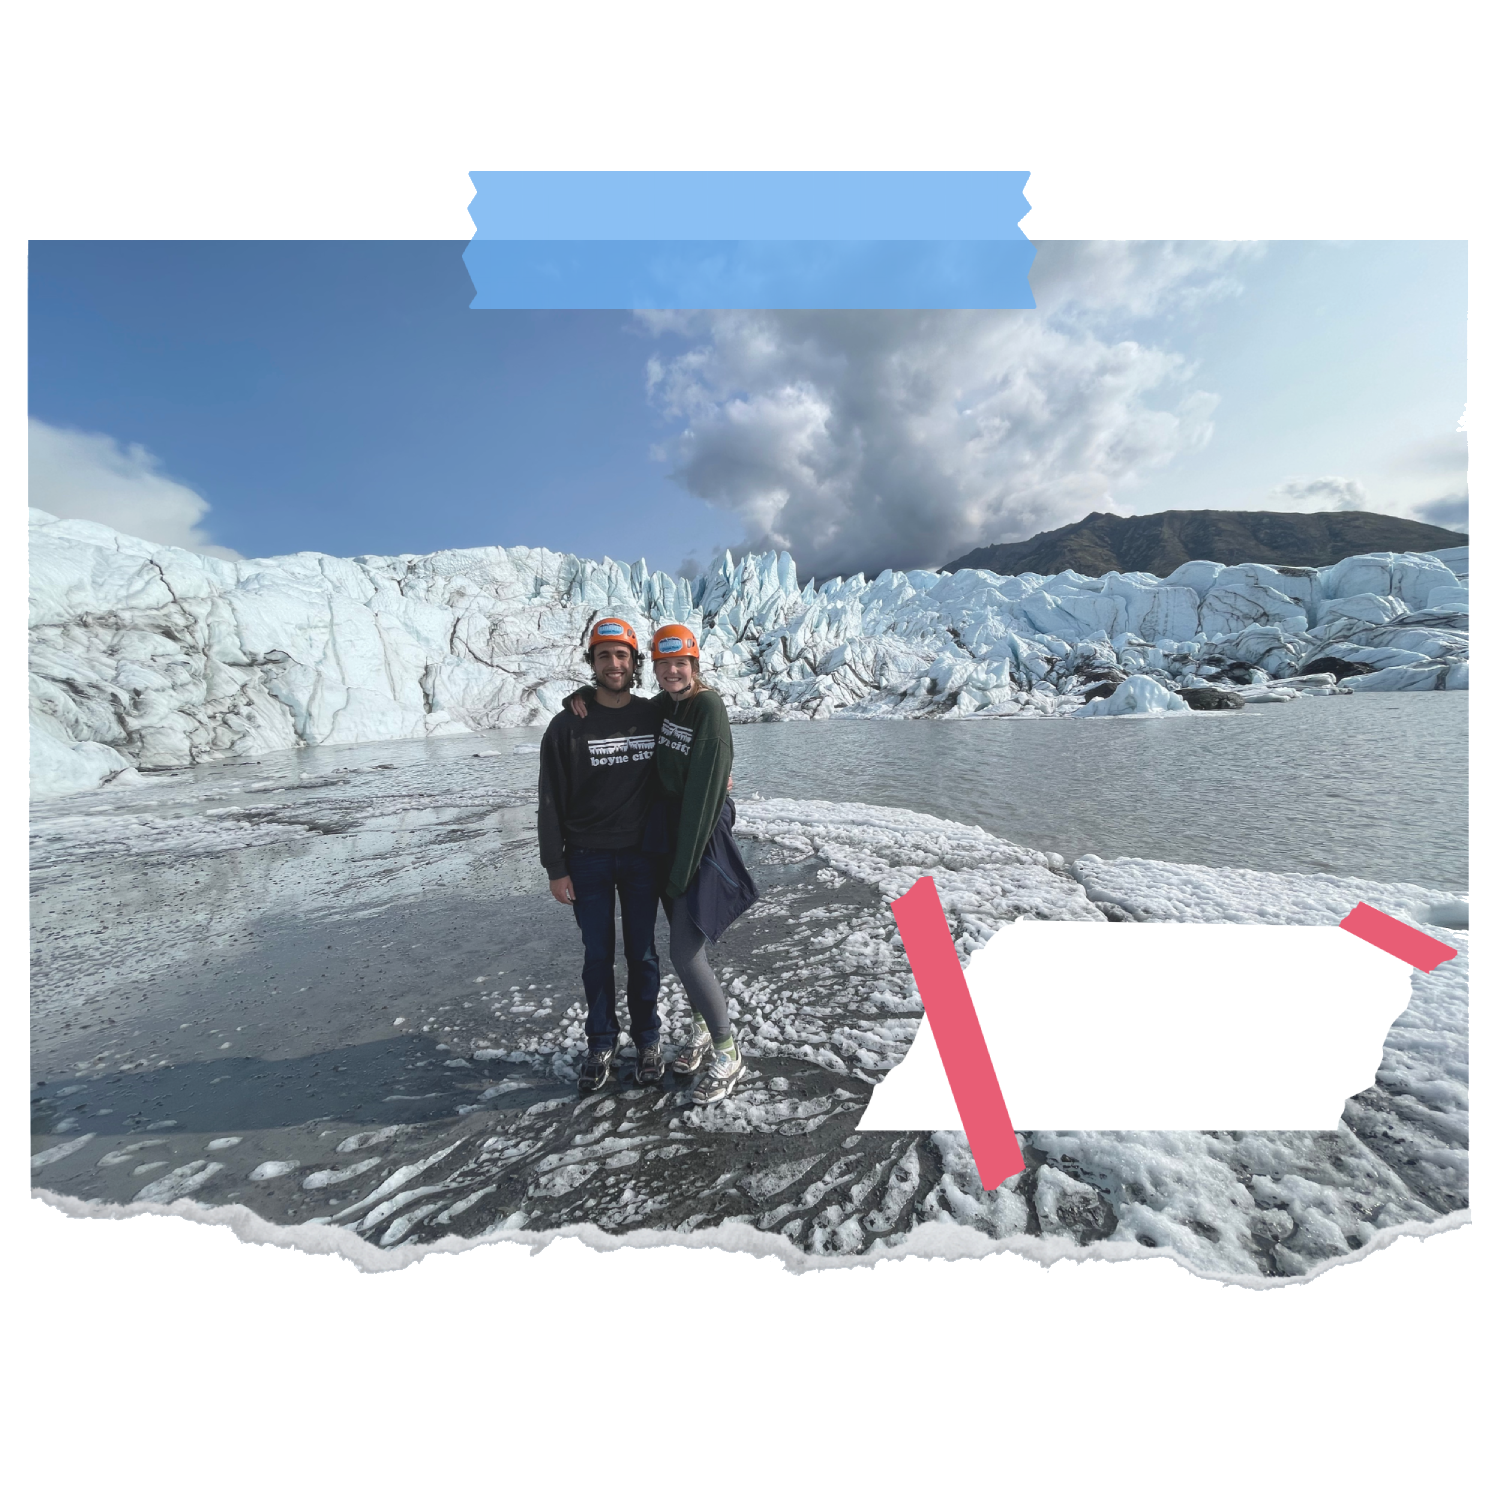
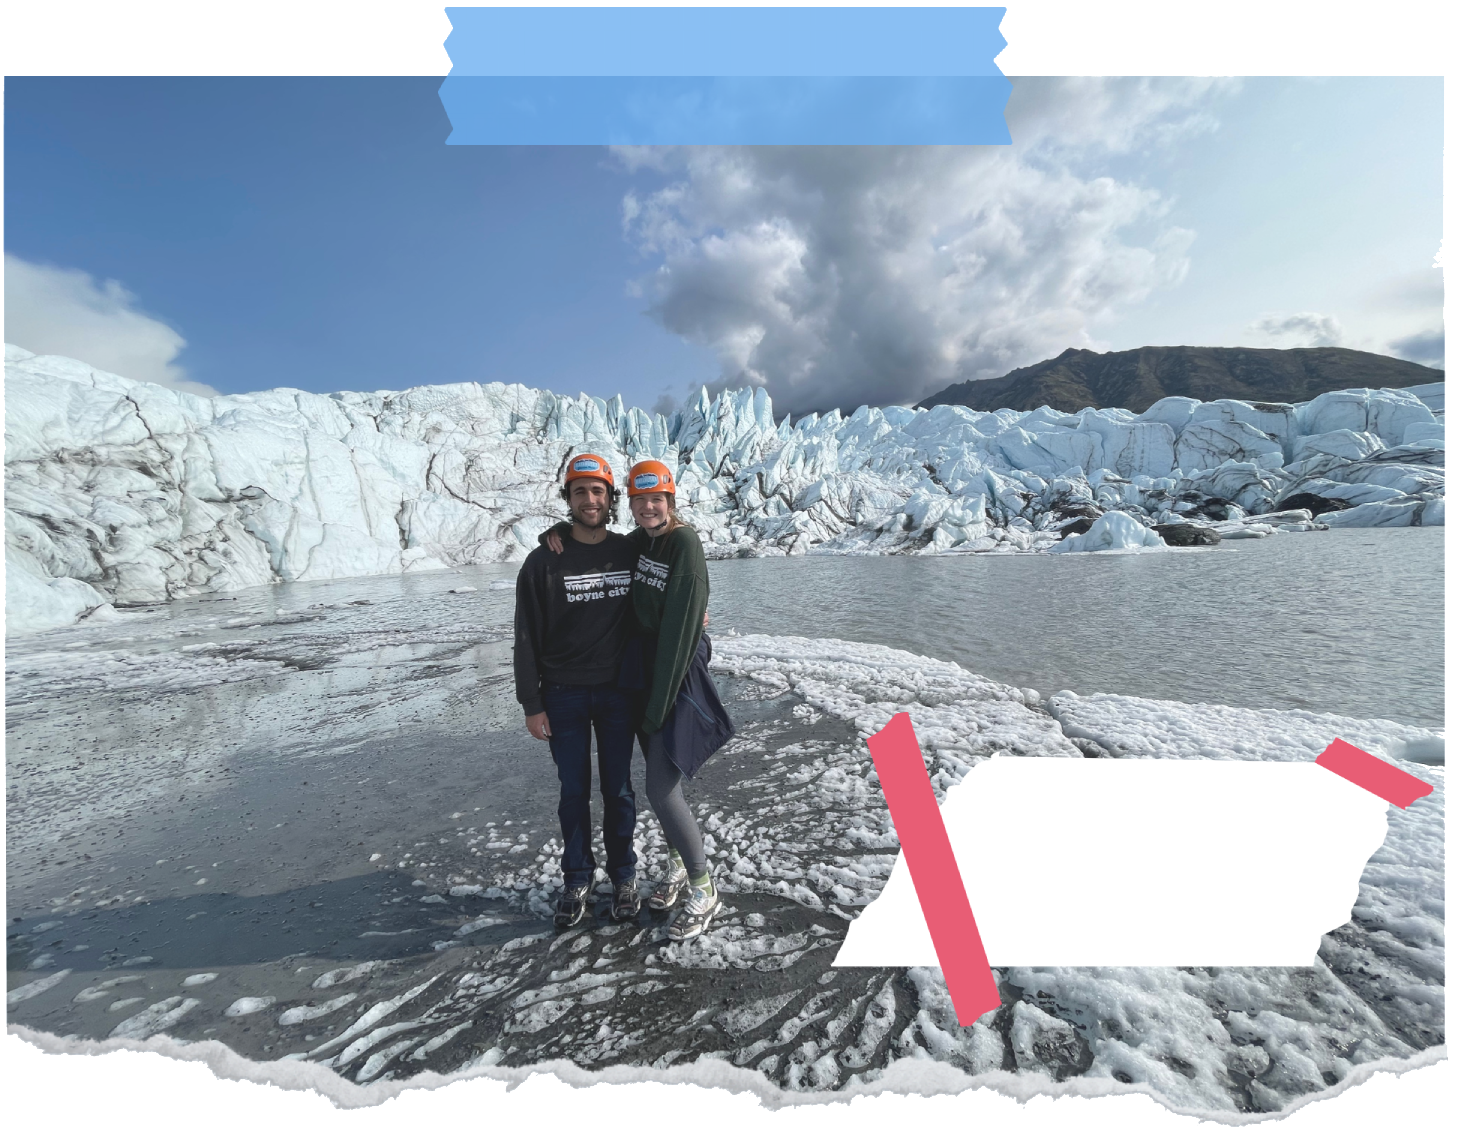
Added the new photo to my personal page

diff --git a/personal.html b/personal.html
@@ -45,12 +45,15 @@
          <h1>About Me</h1>
        </div>
        <body>
-            <p>What is there to say? I am a recent graduate from Cornell University,
-            where I studied Mathematics & German Studies. I work as a Robotics
-            Process Automation Consultant in the Bay Area. I love my wfh lifestyle-
-            I recently got a desk treadmill, so now I am unstoppable! In my free
-            time, I like to hike, crochet, game, and look for any opportunity to
-            practice my German.</p>
+         <div id="personalpic">
+           <img src="images/MatanuskaEdited.png" id="glacier" alt="Skyeler & Sam standing in front of a glacier" with=800>
+        </div>
+         <p>What is there to say? I am a recent graduate from Cornell University,
+          where I studied Mathematics & German Studies. I work as a Robotics
+          Process Automation Consultant in the Bay Area. I love my wfh lifestyle-
+          I recently got a desk treadmill, so now I am unstoppable! In my free
+          time, I like to hike, crochet, game, and look for any opportunity to
+          practice my German.</p>
         </body>
         </div>
     <footer>

diff --git a/styles/theme2.css b/styles/theme2.css
@@ -251,3 +251,14 @@ body p {
   text-align: center;
   max-width: 600px;
 }
+
+#personalpic {
+  display: flex;
+}
+
+#glacier {
+  width: 700px;
+  margin-left: auto;
+  margin-right: auto;
+  align-self: center;
+}
